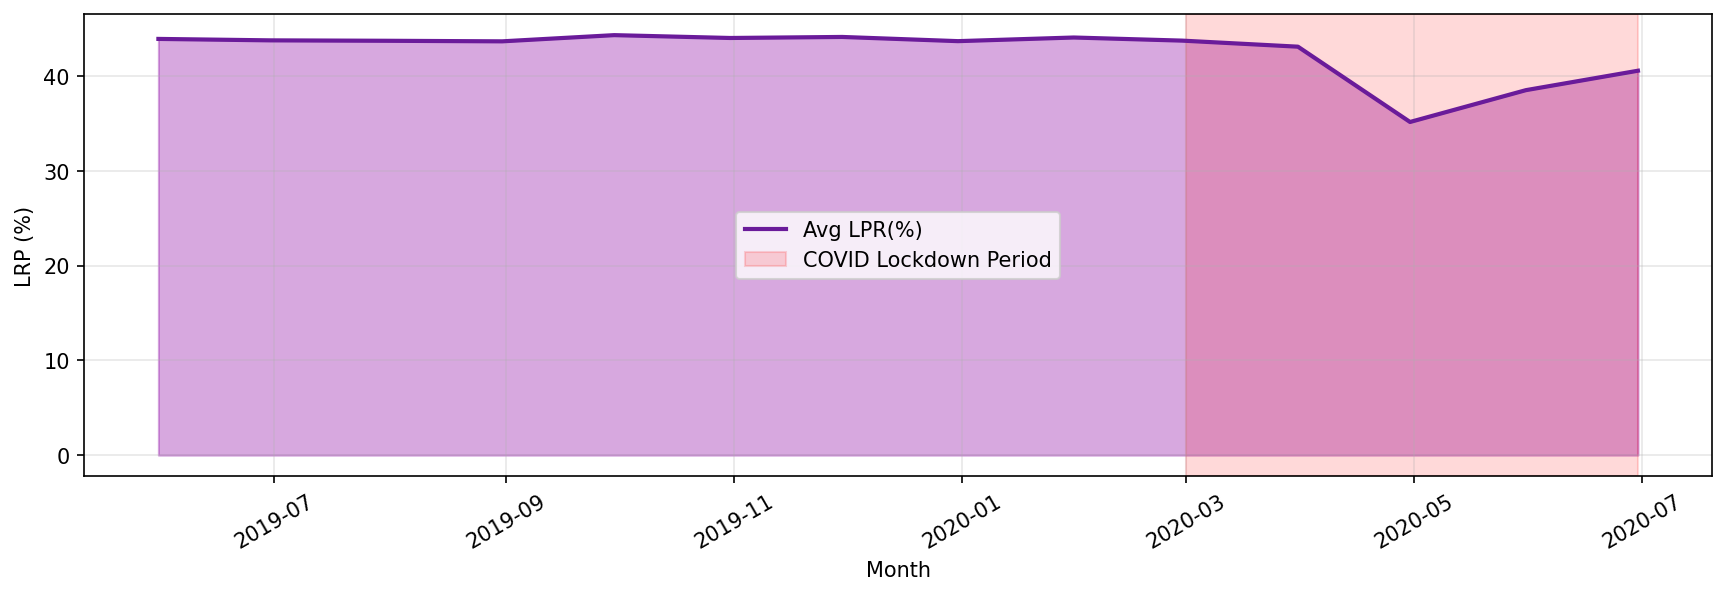
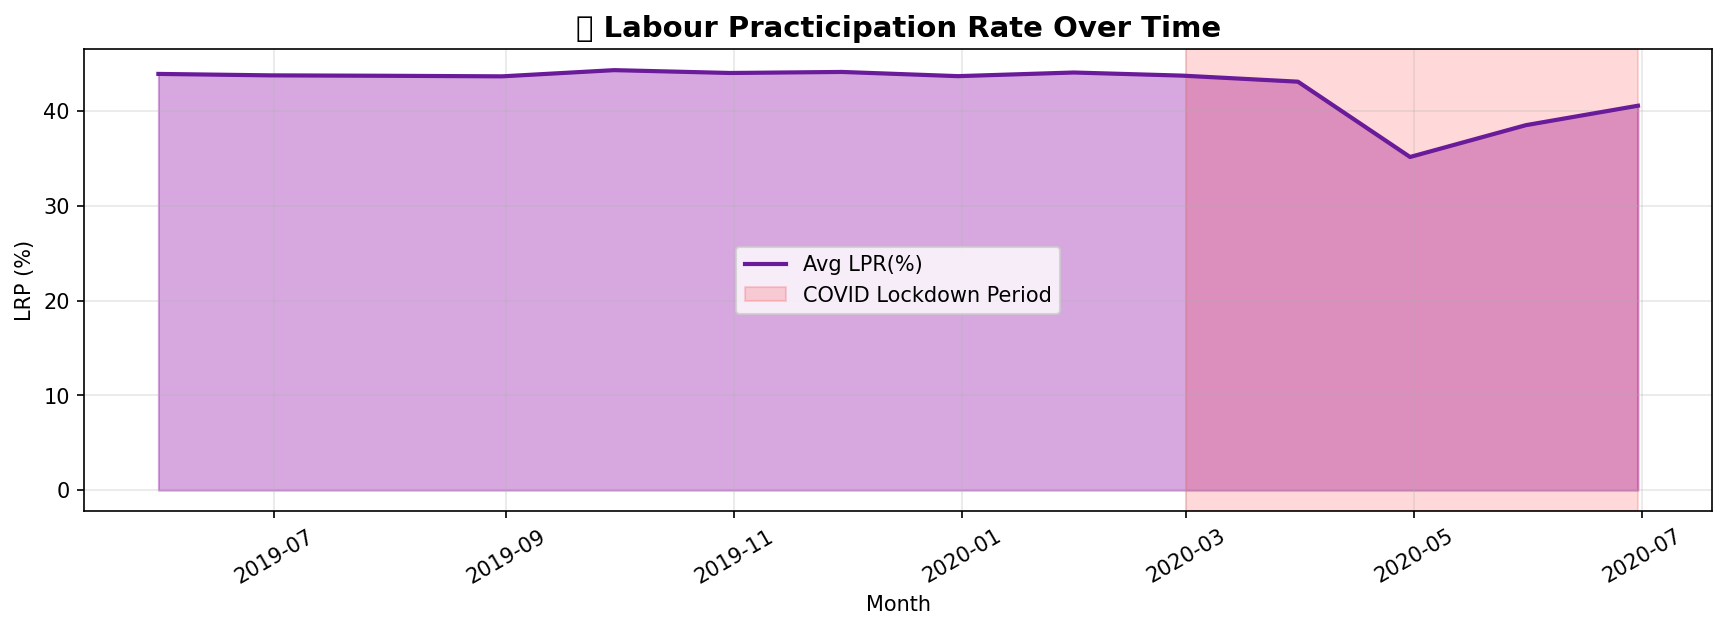
Refactor code structure for improved readability(by creating a Chart - COVID Pre vs During Unemployment Comparision ) and maintainability

diff --git a/task2_unemployment.py b/task2_unemployment.py
@@ -129,6 +129,7 @@ fig, ax = plt.subplots(figsize=(14,4)) # type: ignore
 ax.fill_between(lpr_monthly['Date'], lpr_monthly['LPR'],alpha=0.4, color='#9C27B0') # type: ignore
 ax.plot(lpr_monthly['Date'], lpr_monthly['LPR'], color='#6A1B9A',linewidth=2,label='Avg LPR(%)') # type: ignore
 ax.axvspan(covid_lockdown_start, covid_lockdown_end, alpha=0.15, color='red', label='COVID Lockdown Period') # type: ignore
+ax.set_title('👷 Labour Practicipation Rate Over Time', fontsize=14, fontweight='bold') # type: ignore
 ax.set_xlabel('Month') # type: ignore
 ax.set_ylabel('LRP (%)') # type: ignore
 ax.legend() # type: ignore
@@ -137,3 +138,29 @@ plt.xticks(rotation=30) # type: ignore
 plt.savefig('unemp_lpr_trend.png', dpi=150, bbox_inches='tight') # type: ignore
 plt.close()
 print("✅ Saved:'unemp_lpr_trend.png'")
+
+# --- 8. Chart 6 - COVID Pre vs During Unemployment Comparision ---
+pre_covid  = u1[u1['Date'] < covid_lockdown_start]['UnempRate'].mean()
+dur_covid  = u1[(u1['Date'] >= covid_lockdown_start) & (u1['Date'] <= covid_lockdown_end)]['UnempRate'].mean()
+post_covid = u1[u1['Date'] > covid_lockdown_end]['UnempRate'].mean()
+
+phases =['Pre-COVID\n(May 2019 - Feb 2020)',
+         'During Lockdown\n(March - june 2020)',
+         'post-Lackdown\n(Jul - Dec 2020)']
+values =[pre_covid, dur_covid, post_covid]
+bar_colors = ['#4CAF50','#F44336','#FF9800']
+
+fig, ax =plt.subplots(figsize=(9,5)) # type: ignore
+bars = ax.bar(phases, values, color=bar_colors, edgecolor='white',linewidth=1.5, width=0.55) # type: ignore
+for bar, val in zip(bars, values): # type: ignore
+    ax.text(bar.get_x() + bar.get_width()/2, # type: ignore
+            bar.get_height() + 0.3, f'{val:.1f}%', # type: ignore
+            ha='center', fontsize=12, fontweight='bold')
+ax.set_title('⚡ COVID-19 Impact: Unemployment Rate by Phase', fontsize=14, fontweight='bold') # type: ignore
+ax.set_ylabel('Average Unemployment Rate (%)', fontsize=11) # type: ignore
+ax.set_ylim(0, max(values) * 1.25)
+ax.grid(axis='y', alpha=0.3) # type: ignore
+plt.tight_layout()
+plt.savefig('unemp_covid_impact.png', dpi=150, bbox_inches='tight') # type: ignore
+plt.close()
+print("✅ Saved:'unemp_covid_impact.png' ")
